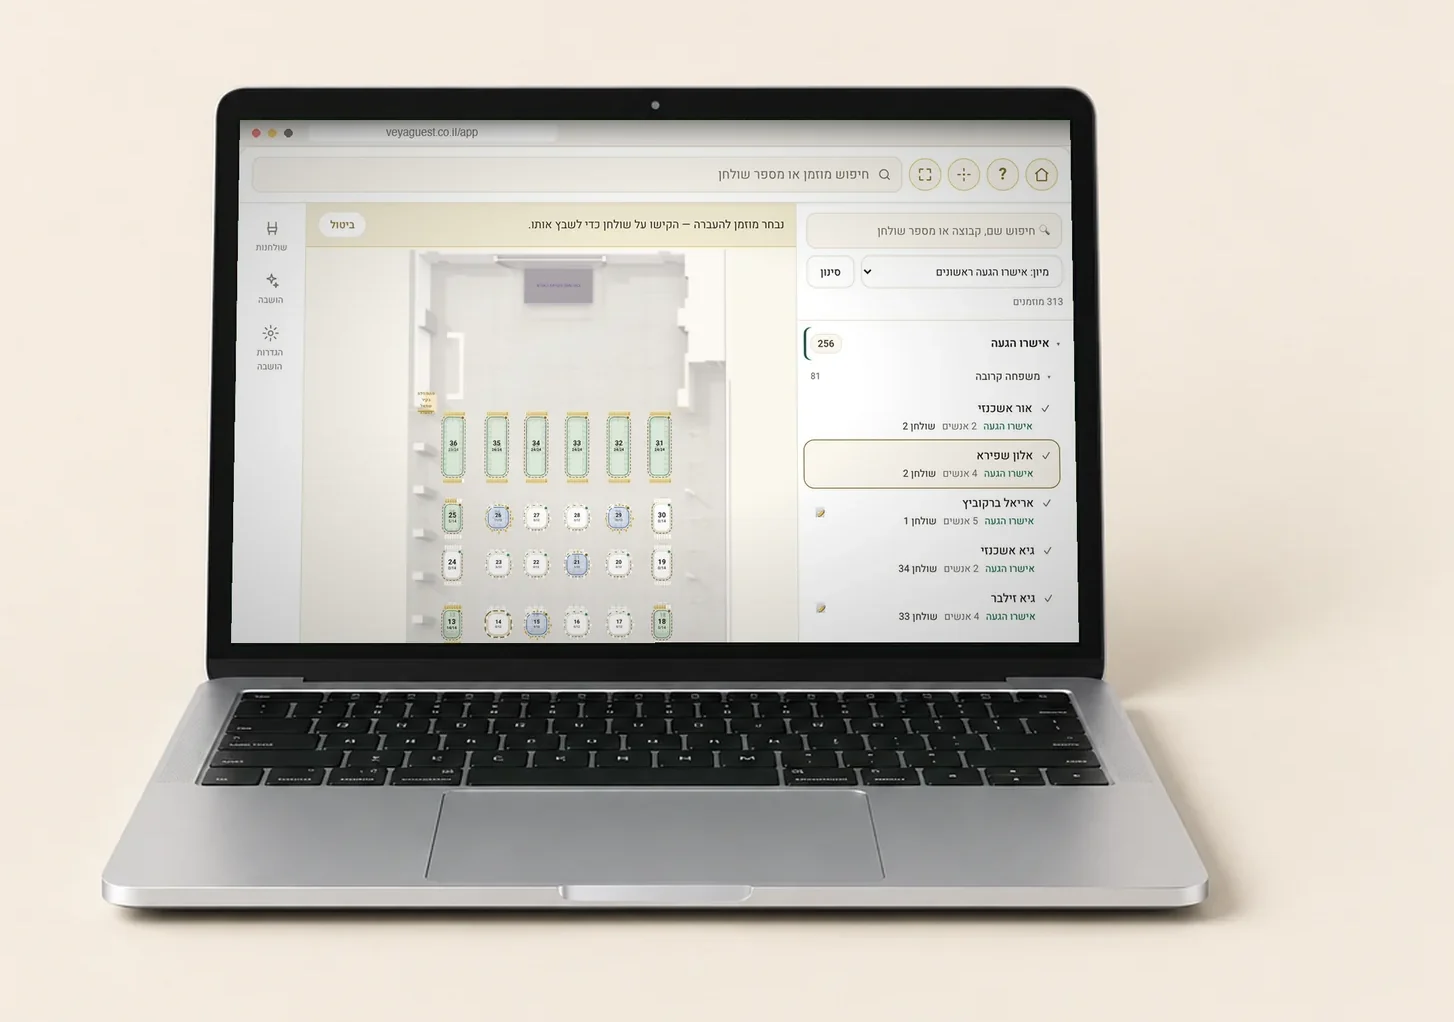
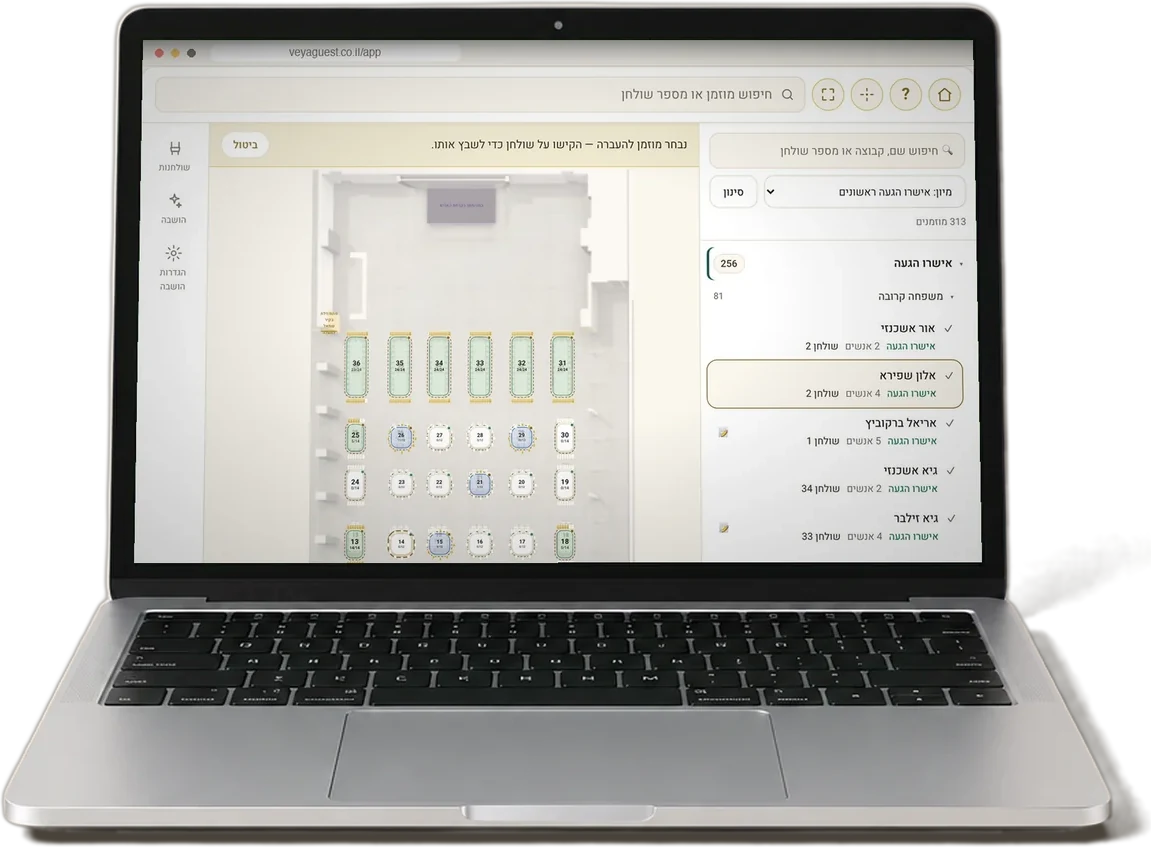
דף הבית: המחשבים "טבועים" בדף — בלי מסגרת, עם הצל של הצילום עצמו
הרקע של צילום הסטודיו הוסר: המחשב נחתך לפי קו מתאר מדויק (הסרת רקע של
Higgsfield למחשב מלפנים; שני גופים קמורים — מסך ובסיס — למחשב בזווית), והצל
שבצילום נשמר כצל שקוף, נמדד מול הבהירות המקומית של הנייר כדי שלא יישאר מלבן
בגוון אחר (laptop/cutout_keep_shadow.py). המסכה הרדיאלית ב-CSS הוסרה.

diff --git a/frontend/index.html b/frontend/index.html
@@ -1921,7 +1921,7 @@
 .lp-chap .lp-scene .lp-device { width: 100%; }
 /* the laptop is a photo (generated) with the real screenshot placed on its screen */
 .lp-device { margin: 0; }
-.lp-device img { width: 100%; height: auto; -webkit-mask-image: radial-gradient(ellipse 60% 62% at 50% 50%, #000 72%, transparent 100%); mask-image: radial-gradient(ellipse 60% 62% at 50% 50%, #000 72%, transparent 100%); }
+.lp-device img { width: 100%; height: auto; }
 .lp-chap .lp-person { position: absolute; z-index: 3; bottom: -104px; pointer-events: none; }
 .lp-how-head { padding-bottom: 0; }
 
@@ -2209,7 +2209,7 @@ html[data-a11y-motion] .lp-enter, html[data-a11y-motion] .lp-rv { opacity: 1; tr
       <a class="lp-link lp-more" href="/features/guests/">על רשימת המוזמנים</a>
     </div>
     <div class="lp-scene">
-      <figure class="lp-device lp-rv"><img loading="lazy" decoding="async" src="/product/mac-paste-review-front.webp" width="1454" height="1022" alt="בדיקת רשימה שהודבקה: שמות, טלפונים, צד, קבוצה וכמות, על מסך מחשב נייד"></figure>
+      <figure class="lp-device lp-rv"><img loading="lazy" decoding="async" src="/product/mac-paste-review-front.webp" width="1152" height="847" alt="בדיקת רשימה שהודבקה: שמות, טלפונים, צד, קבוצה וכמות, על מסך מחשב נייד"></figure>
       <img loading="lazy" decoding="async" class="lp-person lp-rv" style="transition-delay:200ms" src="/people/planning-together.webp" alt="זוג מול המחשב">
       <div class="lp-chip lp-a lp-rv" style="transition-delay:350ms"><b class="lp-sm">5 מתוך 6 שורות</b>נבחרו לייבוא</div>
     </div>
@@ -2226,7 +2226,7 @@ html[data-a11y-motion] .lp-enter, html[data-a11y-motion] .lp-rv { opacity: 1; tr
       <a class="lp-link lp-more" href="/features/rsvp/">על אישורי ההגעה והמעקב הטלפוני</a>
     </div>
     <div class="lp-scene">
-      <figure class="lp-device lp-rv"><img loading="lazy" decoding="async" src="/product/mac-rsvp-studio.webp" width="1502" height="988" alt="מסך אישורי ההגעה: ספירה ומסלול של בקשות, תזכורות וסבבי שיחות, על מסך מחשב נייד"></figure>
+      <figure class="lp-device lp-rv"><img loading="lazy" decoding="async" src="/product/mac-rsvp-studio.webp" width="1362" height="842" alt="מסך אישורי ההגעה: ספירה ומסלול של בקשות, תזכורות וסבבי שיחות, על מסך מחשב נייד"></figure>
       <div class="lp-chip lp-a lp-rv" style="transition-delay:250ms"><b class="lp-sm">סבב שיחות ראשון</b>מי שעדיין לא אישר · 134 מוזמנים</div>
       <div class="lp-chip lp-b lp-rv" style="transition-delay:400ms"><b class="lp-green">122</b>אישרו הגעה</div>
     </div>
@@ -2261,7 +2261,7 @@ html[data-a11y-motion] .lp-enter, html[data-a11y-motion] .lp-rv { opacity: 1; tr
       <a class="lp-link lp-more" href="/features/seating/">על סידור ההושבה</a>
     </div>
     <div class="lp-scene">
-      <figure class="lp-device lp-rv"><img loading="lazy" decoding="async" src="/product/mac-seating-front.webp" width="1454" height="1022" alt="מסך סידור ההושבה: מפת האולם עם השולחנות ורשימת המוזמנים, על מסך מחשב נייד"></figure>
+      <figure class="lp-device lp-rv"><img loading="lazy" decoding="async" src="/product/mac-seating-front.webp" width="1151" height="847" alt="מסך סידור ההושבה: מפת האולם עם השולחנות ורשימת המוזמנים, על מסך מחשב נייד"></figure>
       <div class="lp-chip lp-a lp-rv" style="transition-delay:250ms"><b class="lp-sm">אלון שפירא ✓</b>אישרו הגעה · 4 אנשים · שולחן 2</div>
       <div class="lp-chip lp-goldbtn lp-b lp-rv" style="transition-delay:400ms">הושבה בקליק</div>
     </div>
